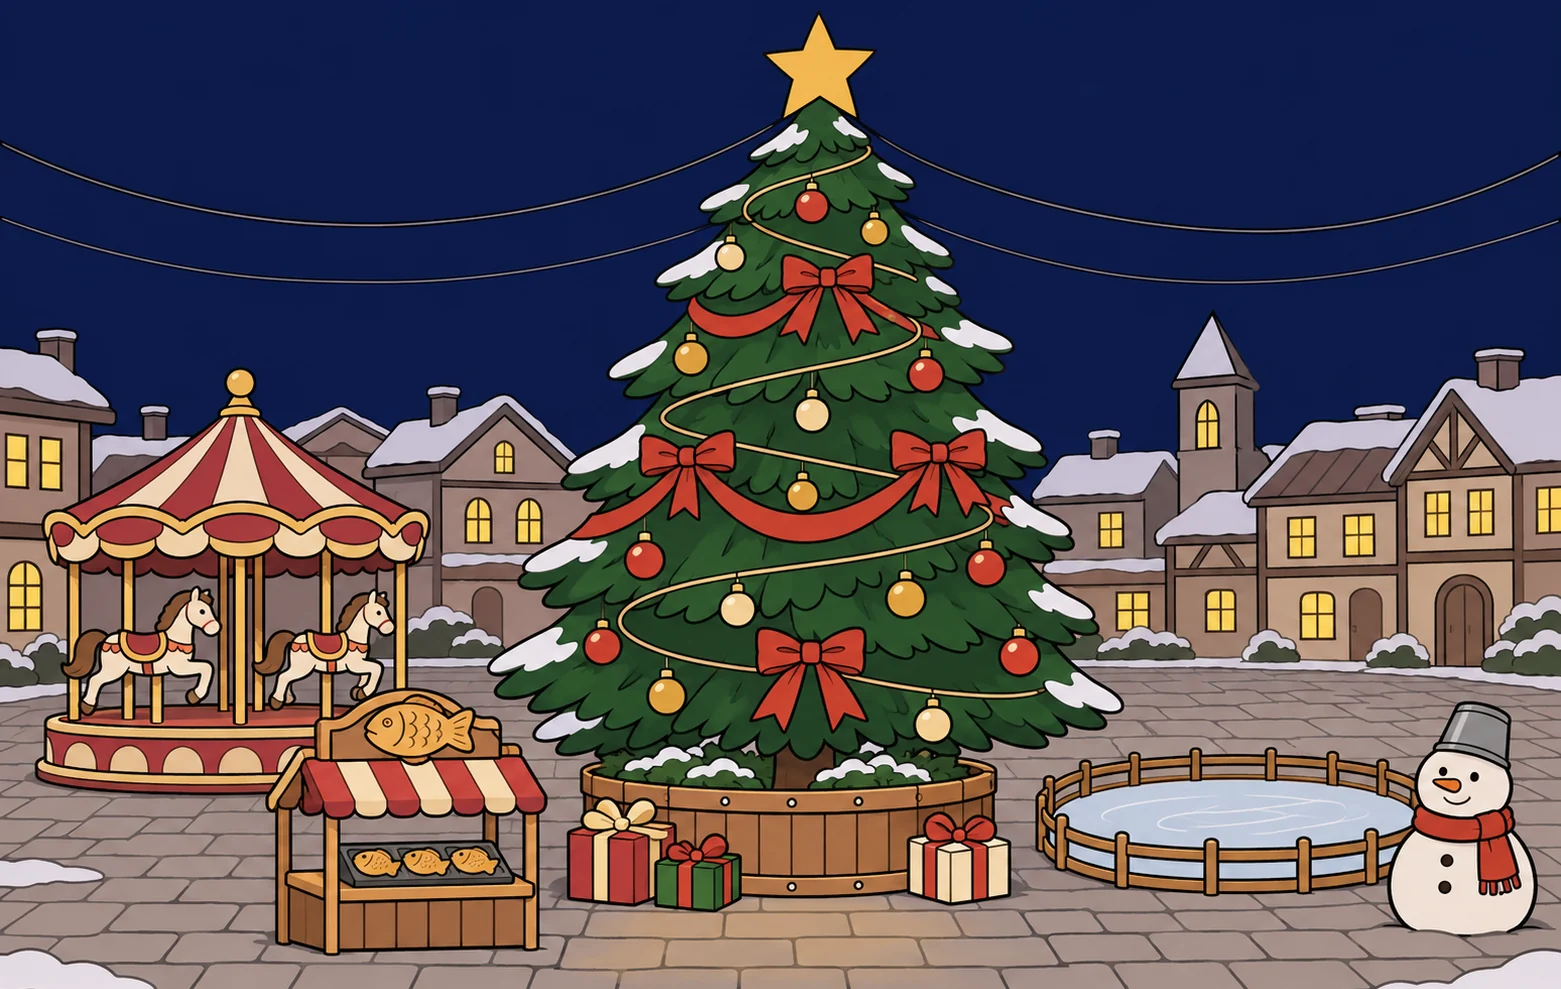
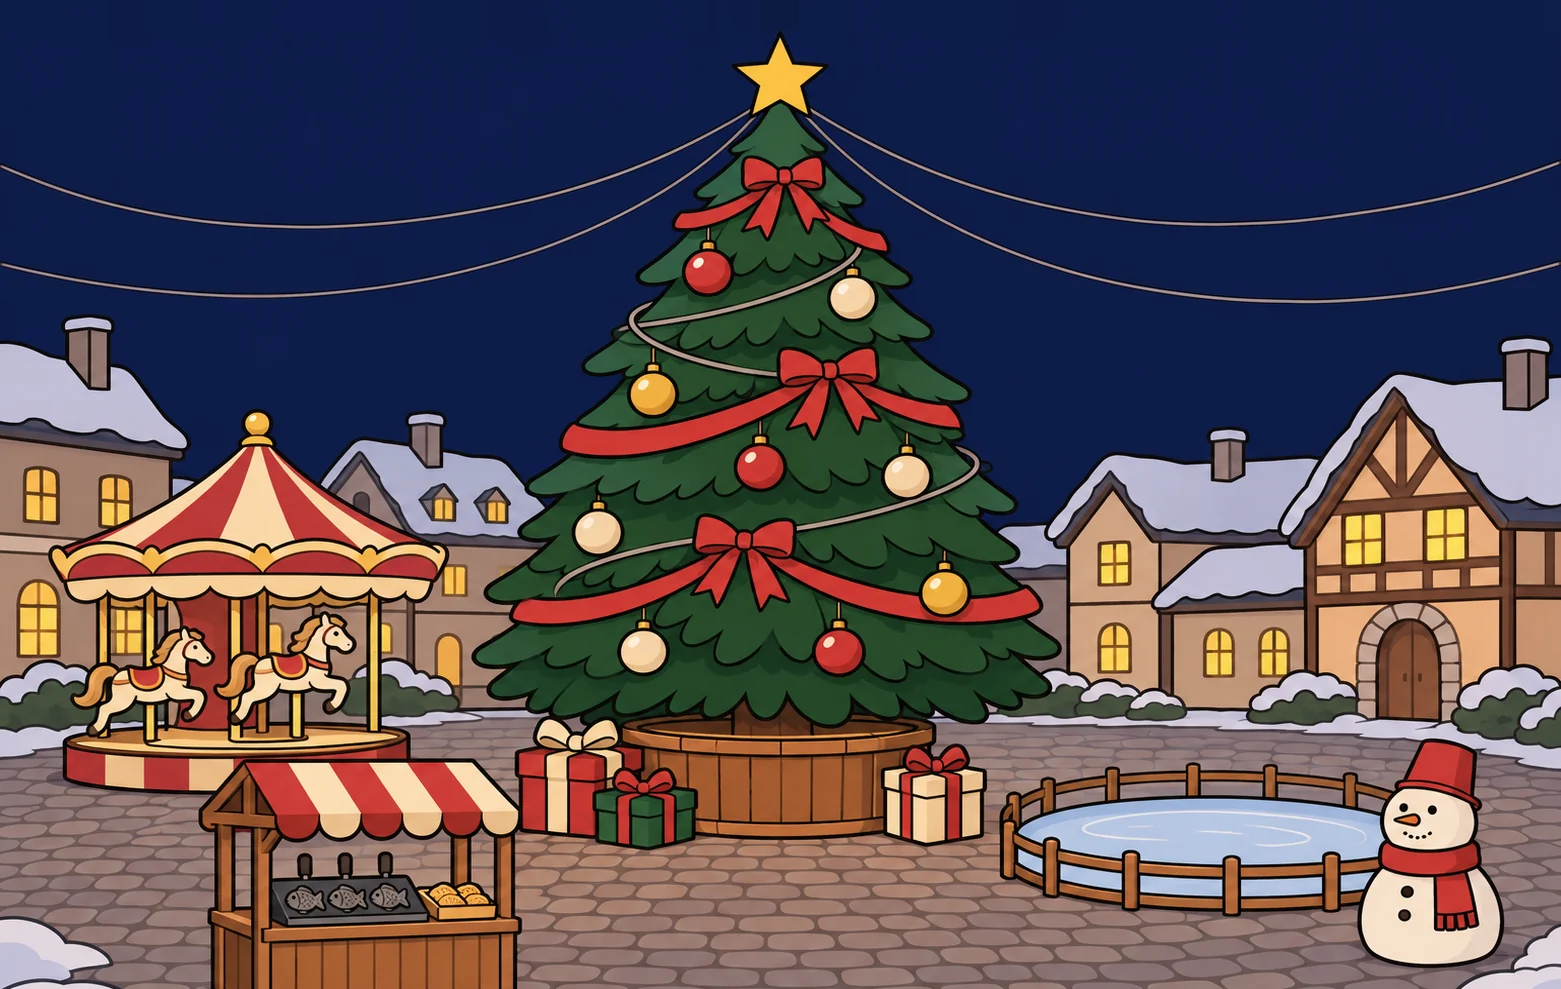
크리스마스 광장 그림 1: 풍경화 v2 다듬어 바꿈(트리 앞 빈 자리 지킴)·완료 항목 체크 — implemented (tasks/xmas-plaza-art.md)

diff --git a/tasks/xmas-plaza-art.md b/tasks/xmas-plaza-art.md
@@ -1,10 +1,10 @@
 # 크리스마스 광장 그림 1: 광장 풍경화(밤) · 약도 광장 2장
-- status: in-progress
+- status: implemented
 - mode: needs-review
 - relay: brief
 - office: ready
 - brief: assets/briefs/XMAS_PLAZA_ART.md (회의에서 씀 — 왕복으로 다듬기)
-- assets: assets/plaza/*-source-v1.png (git 무시) · web/plaza/xmas-night.webp · web/r/map/plaza-xmas.webp · web/r/map/plaza-lot.webp
+- assets: assets/plaza/*-source-v1.png · xmas-night-source-v2.png (git 무시) · web/plaza/xmas-night.webp · web/r/map/plaza-xmas.webp · web/r/map/plaza-lot.webp
 - 출처: 회의 2026-11-15 크리스마스 광장 — `XMAS_PLAZA_PLAN.md`
 
 ## 범위
@@ -17,14 +17,14 @@
 - 2차(펠리컨 오르골)는 이 티켓이 아니다.
 
 ## 요구사항
-- [ ] 지시서 `assets/briefs/XMAS_PLAZA_ART.md` 왕복으로 다듬기(자리 숫자는 플랜과 어긋나지 않게)
-- [ ] 그림 3장 요청 → 들어오면 지시서와 대조(트리 자리·비워 둘 자리·전구 알 없음·글자 없음, 약도 두 장 땅 자리 같음), 다시 그릴 것만 다시
-- [ ] 원본 `assets/plaza/`에, 웹 `web/plaza/xmas-night.webp`·`web/r/map/plaza-xmas.webp`·`web/r/map/plaza-lot.webp`
-- [ ] 받은 그림 크기가 지시서와 다르면 어떻게 맞췄는지 메모에 (풍경화는 1561×989, 약도 그림은 땅 선 y 496)
+- [x] 지시서 `assets/briefs/XMAS_PLAZA_ART.md` 왕복으로 다듬기(자리 숫자는 플랜과 어긋나지 않게)
+- [x] 그림 3장 요청 → 들어오면 지시서와 대조(트리 자리·비워 둘 자리·전구 알 없음·글자 없음, 약도 두 장 땅 자리 같음), 다시 그릴 것만 다시
+- [x] 원본 `assets/plaza/`에, 웹 `web/plaza/xmas-night.webp`·`web/r/map/plaza-xmas.webp`·`web/r/map/plaza-lot.webp`
+- [x] 받은 그림 크기가 지시서와 다르면 어떻게 맞췄는지 메모에 (풍경화는 1561×989, 약도 그림은 땅 선 y 496)
 
 ## 확인
-- [ ] `test -f`로 웹 그림 셋
-- [ ] `node tools/check_structure.mjs` 통과
+- [x] `test -f`로 웹 그림 셋
+- [x] `node tools/check_structure.mjs` 통과
 - [ ] (사람) 풍경화를 띄워 보고: "예쁜 크리스마스 풍경화" 느낌인지, 방 그림과 같은 화풍인지, 전구 알·글자 없음, 트리 앞이 비었는지
 - [ ] (사람) 약도 그림 둘을 `map-base.webp` 빈 터 A(x 120~360 · y 160~400)에 겹쳐 보고 크기·시점이 만화방 건물과 어울리는지
 
@@ -36,9 +36,12 @@
 ## 메모
 - 2026-11-15 지시서 작성(Claude, 회의). 주인 요청으로 `- office: ready`(2026-11-15).
 - 2026-11-15 지시서 왕복(1번째 통과) → 그림 3장 받음, 그림 검수 통과(Claude). 다듬기:
-  - **풍경화** 원본 1548×1016 → 가로 1561에 맞춰 1.0084배(1561×1025) 뒤 위 20·아래 16px 잘라 1561×989. 위를 다 자르지 않은 것은 별 꼭대기가 원본 y 36이라서.
-  - 풍경화가 지시서 자리와 다른 곳(다시 그리지 않고 그대로 씀 — 다음 티켓은 아래 실제 자리를 쓴다): 트리 받침·선물 아래끝이 약 y 910(지시서 850). 그래서 **트리 앞 빈 돌바닥은 x 640~940 · y 약 915~989**(지시서 850~929보다 아래, 아래 가장자리 60px에 걸침). 눈사람 x 약 1390~1538(안전 구역 1500 넘음), 스케이트장 오른끝과 눈사람이 조금 겹침. 붕어빵 노점 바닥선 약 y 965. 전구 알·글자 없음.
+  - 풍경화 v1(원본 1548×1016)은 받침·선물이 비워 둘 자리를 덮어 아래 되돌림 메모대로 다시 그림 → v2로 바꿈.
   - **약도 두 장** 원본 1254×1254 투명 → 땅 타원(왼·오른끝, 가운데, 앞끝)을 재서 공통 타원 x 48~464 · y 392~496(앞끝 y 496, 그 아래 투명)에 맞춤. 땅 깊이가 달라 가로·세로 배율을 따로: plaza-xmas 0.3624×0.3333, plaza-lot 0.3568×0.3969. 알파 12 미만은 0으로(가장자리 잔여 지움). 지시서의 땅 y 300~496은 납작한 타원이라 실제로는 y 392~496.
   - plaza-xmas의 트리는 땅 가운데보다 오른쪽(왼쪽에 회전목마) — 땅을 가운데 맞추는 쪽을 택했고 트리만 옮기지 않음.
   - 셋 다 `WEBP quality=86 method=6`. `r/map/`은 build_meta 밖이라 meta 등록 없음.
 - 2026-11-15 검수 되돌림(M2): 풍경화 받침·선물이 비워 둘 자리(y 850~929)를 덮은 채 "다음 티켓이 실제 자리를 쓴다"로 넘긴 것은 요구사항을 못 채움 → 자리 숫자는 그대로 두고 **풍경화만 다시 그리기 요청**(지시서 8장, 원본 `xmas-night-source-v2.png`). 약도 두 장은 그대로. 위 풍경화 v1 메모는 v2가 들어오면 고친다.
+- 2026-11-15 풍경화 v2 받음(그림 검수 통과) → 다듬어 `web/plaza/xmas-night.webp` 바꿈(Claude):
+  - 원본 1536×1024. 별 꼭대기가 원본 y 10, 받침·선물 아래끝이 원본 y 약 836이라 "가로 1561에 맞춰 자르기"만으로는 별을 y 40에 두면 받침이 850을 넘음 → 가로 1.0163배(1561)·**세로 0.975배**(998, 약 4% 납작)로 줄이고, 위에 하늘 30px를 덧대고(맨 위 8줄 하늘색 평균, 하늘은 거의 한 색), 아래 39px를 잘라 1561×989.
+  - 그 뒤 자리: 별 꼭대기 y 약 40, 트리 몸체 x 약 475~1060 · y 100~720, 받침·선물 x 약 515~985, 아래끝 y 약 845. **트리 앞 x 640~940 · y 850~929는 돌바닥만**(확대해 확인). 회전목마 x 약 60~445 · 바닥선 y 790, 붕어빵 노점 x 약 200~520(아래 가장자리까지 내려옴), 스케이트장 x 약 1000~1390 · y 765~910, 눈사람 x 약 1360~1505 · 아래끝 y 약 960.
+  - 지시서 표와 남은 차이(그림 검수가 코드로 옮기라 한 것 중 하지 않은 것): 트리 몸체가 지시서(x 560~1000)보다 넓음, 노점·눈사람 아래끝이 아래 안전 여백(y 929)에 걸림, 스케이트장·눈사람이 지시서 자리보다 조금 큼. 소품을 오려 옮기면 돌바닥 이음매가 드러나서 옮기지 않음 — 비워 둘 자리와 트리 자리는 지켰고, 나머지는 사람 확인에서 보고 정함.

diff --git a/assets/briefs/XMAS_PLAZA_ART.md b/assets/briefs/XMAS_PLAZA_ART.md
@@ -1,6 +1,6 @@
 # 에셋: 크리스마스 광장 1차 — 광장 풍경화 · 약도 광장 2장 (XMAS_PLAZA_ART)
 
-> 상태: **풍경화 다시 그리기 요청 (2026-11-15, 8장) — 약도 두 장은 받음·다듬음.** 1번째 풍경화는 트리 받침·선물이 비워 둘 자리를 덮어 검수에서 돌려보냄. 플랜 `XMAS_PLAZA_PLAN.md`. 티켓 `tasks/xmas-plaza-art.md`. 2차(펠리컨 오르골)는 따로.
+> 상태: **그림 셋 받음·다듬음 (2026-11-15, 풍경화는 8장 v2) — 사람 확인 남음.** 다듬은 방법·남은 자리 차이는 티켓 메모에. 플랜 `XMAS_PLAZA_PLAN.md`. 티켓 `tasks/xmas-plaza-art.md`. 2차(펠리컨 오르골)는 따로.
 > 넣을 곳: `/plaza/` 페이지 바탕, 동네 약도 빈 터 A.
 
 ## 1. 한 줄 요약
